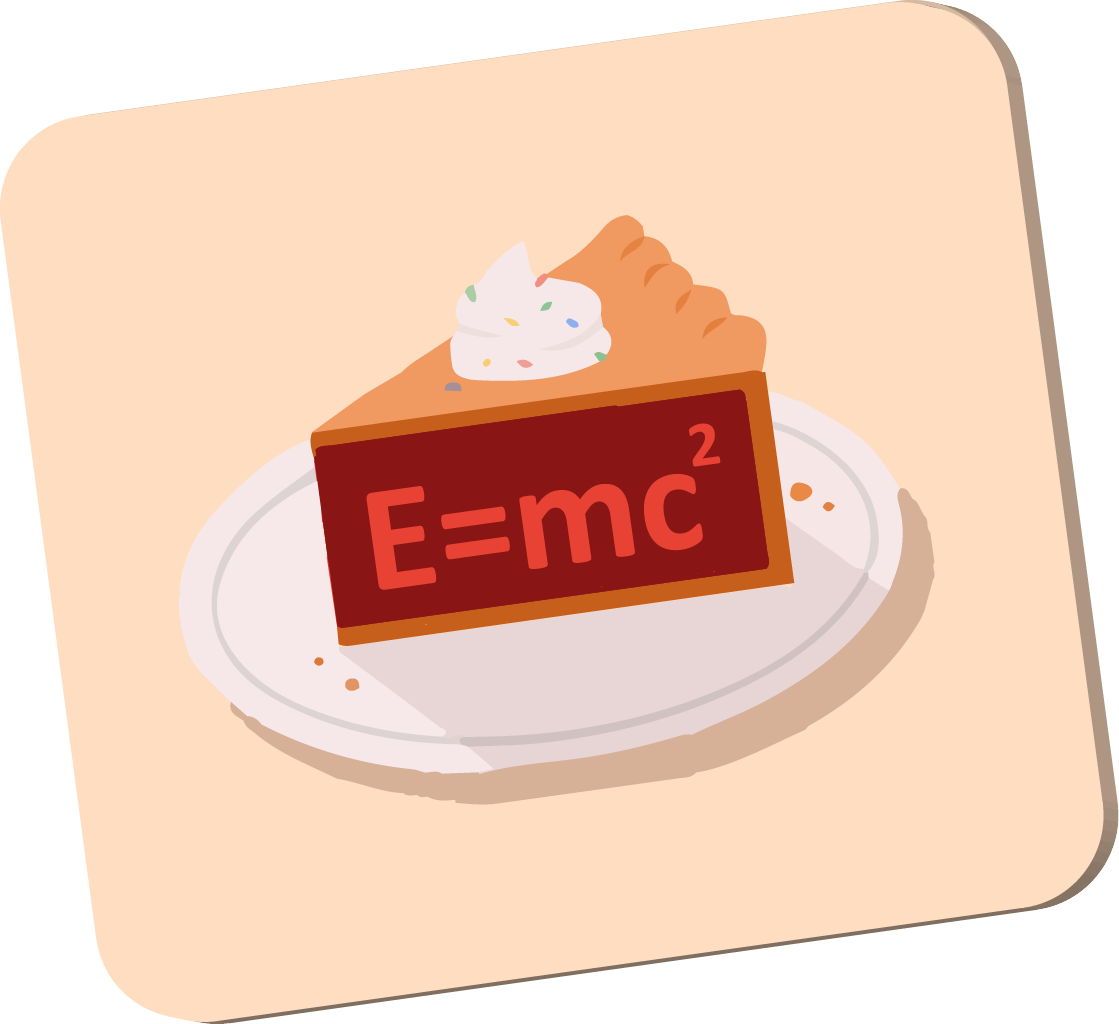
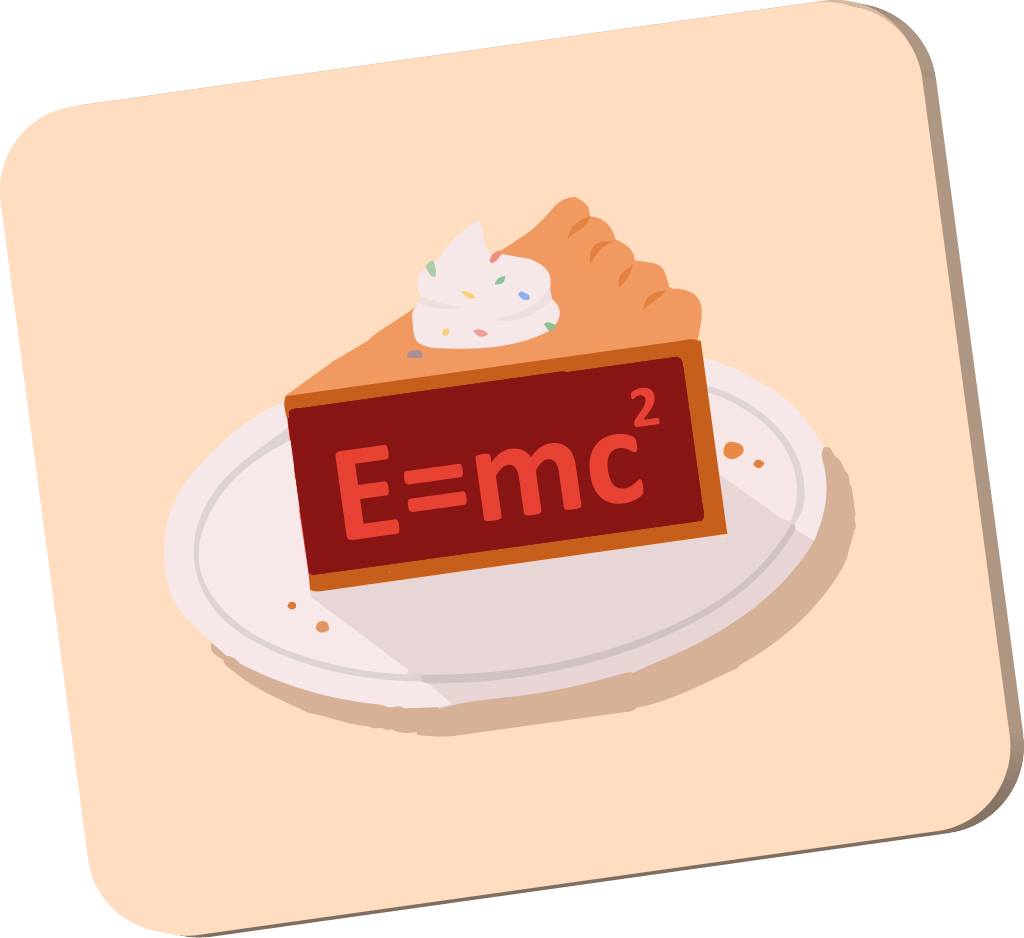
bugfix: wrong dimension

Changed region(s): [[0.1875, 0.9893, 0.25, 1.0]]

diff --git a/CHANGELOG.md b/CHANGELOG.md
@@ -22,7 +22,7 @@ Check [Keep a Changelog](http://keepachangelog.com) for recommendations on how t
 - Only show openSetting when is `EMC_TREEVIEW`
 - Change code files to 🐪case
 - webpack 5.111.1 compiled successfully in 5146 ms
-- 9 files, 187.94 KB, 1.140.0
+- 9 files, 181.47 KB, 1.140.0
 ```
 easymediaconverter-3.0.1.vsix
 ├─ [Content_Types].xml
@@ -35,7 +35,7 @@ easymediaconverter-3.0.1.vsix
    ├─ dist/
    │  └─ extension.js [411.55 KB]
    └─ media/
-      ├─ emc.png [70.93 KB]
+      ├─ emc.png [64.12 KB]
       └─ emc.svg [6.77 KB]
 ```
 
